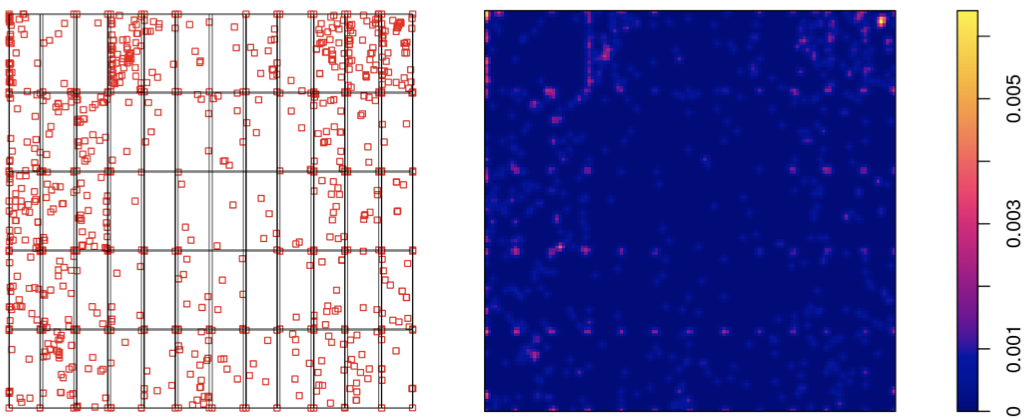
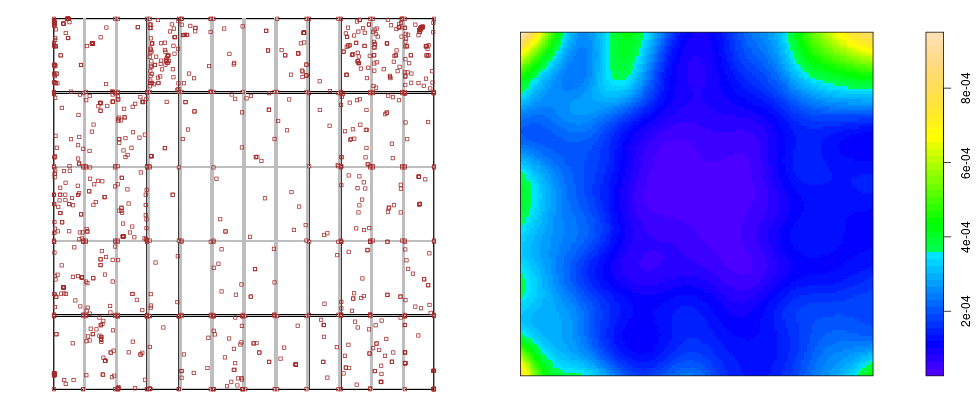
Version: 1.1.25 Replaced Figure 2 (topocolor heatmap). 06.05.20. Note that Figure 2(a, b) are slightly different size!

diff --git a/JOSS-paper/JOSSpaper.md b/JOSS-paper/JOSSpaper.md
@@ -13,7 +13,7 @@ authors:
   name: Tomas Lazauskas
 - affiliation: 2
   name: Martin O'Reilly
-date: "13 January 2020, revised 30 April 2020"
+date: "13 January 2020, revised 06 May 2020"
 output: pdf_document
 bibliography: JOSSpaper.bib
 tags:
@@ -30,9 +30,9 @@ affiliations:
 ---
 
 ```
-Version: 1.1.24
-Added references to Pilatus detector screen. 30.04.20.
-Note that Figure 2(b) still needs to be replaced by a re-coloured version!
+Version: 1.1.25
+Replaced Figure 2 (topocolor heatmap). 06.05.20.
+Note that Figure 2(a, b) are slightly different size!
 ```
 
 [_DetectorChecker_](https://doi.org/10.5281/zenodo.3662233) 
